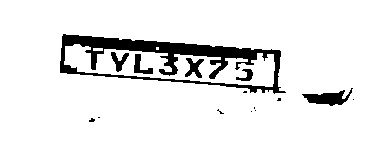
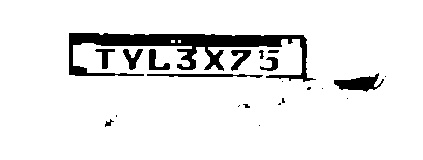
cry: not working && added normalizer_mercosul

diff --git a/main.py b/main.py
@@ -13,13 +13,13 @@ def extrair_placa_mercosul(img):
     """
     hsv = cv2.cvtColor(img, cv2.COLOR_BGR2HSV)
 
-    # Máscara para o azul da faixa Mercosul (cobre também trechos com sombra)
-    azul_min = np.array([98, 70, 40])
-    azul_max = np.array([132, 255, 255])
+    # Máscara para o azul da faixa Mercosul (tolerante a sombras fortes)
+    azul_min = np.array([95, 50, 25])
+    azul_max = np.array([135, 255, 255])
     mascara = cv2.inRange(hsv, azul_min, azul_max)
 
-    # Fecha pequenas falhas na faixa azul (ex.: texto "BRASIL" em branco no meio)
-    kernel = cv2.getStructuringElement(cv2.MORPH_RECT, (15, 5))
+    # Fecha falhas horizontais na faixa azul (texto "BRASIL" e sombras)
+    kernel = cv2.getStructuringElement(cv2.MORPH_RECT, (25, 5))
     mascara = cv2.morphologyEx(mascara, cv2.MORPH_CLOSE, kernel)
     mascara = cv2.morphologyEx(mascara, cv2.MORPH_OPEN, np.ones((3, 3), np.uint8))
 
@@ -50,9 +50,13 @@ def extrair_placa_mercosul(img):
     c, rect = melhor
     (cx, cy), (rw, rh), angulo = rect
 
-    # Ajusta o ângulo para alinhar a faixa azul perfeitamente na horizontal
+    # Mantém a correção de inclinação entre -45° e +45° (evita virar 180°)
     if rw < rh:
+        angulo -= 90.0
+    if angulo < -45.0:
         angulo += 90.0
+    elif angulo > 45.0:
+        angulo -= 90.0
 
     # Rotaciona a imagem inteira em torno do centro da faixa azul
     h_img, w_img = img.shape[:2]
@@ -90,7 +94,7 @@ def preprocessar_placa(placa):
     cinza = cv2.cvtColor(redim, cv2.COLOR_BGR2GRAY)
 
     # Remoção de sombra: divide a imagem pelo fundo estimado com blur forte
-    fundo = cv2.GaussianBlur(cinza, (0, 0), sigmaX=31, sigmaY=31)
+    fundo = cv2.GaussianBlur(cinza, (0, 0), sigmaX=51, sigmaY=51)
     sem_sombra = cv2.divide(cinza, fundo, scale=255)
 
     # Suavização leve + binarização de Otsu
@@ -140,3 +144,43 @@ for caminho in sorted(glob.glob("dataset/*.*"), key=ordem_numerica):
 
 with open("resultados_tesseract.txt", "w", encoding="utf-8") as f:
     f.write("\n".join(resultados))
+    
+PARA_LETRA = {"0": "O", "1": "I", "2": "Z", "4": "A", "5": "S", "6": "G", "8": "B"}
+PARA_DIGITO = {"O": "0", "Q": "0", "D": "0", "I": "1", "L": "1", "Z": "2", "A": "4", "S": "5", "G": "6", "B": "8"}
+
+def normalizar_mercosul(texto):
+    limpo = re.sub(r"[^A-Z0-9]", "", texto.upper())
+    if len(limpo) < 7:
+        return limpo
+
+    # Testa janelas de 7 caracteres caso o OCR tenha lido ruído nas bordas
+    padrao = [True, True, True, False, True, False, False]  # True = letra, False = dígito
+    melhor_candidato = limpo[:7]
+    menor_custo = 99
+
+    for i in range(len(limpo) - 6):
+        trecho = limpo[i : i + 7]
+        custo = 0
+        corrigido = []
+        for ch, espera_letra in zip(trecho, padrao):
+            if espera_letra:
+                if ch.isalpha():
+                    corrigido.append(ch)
+                elif ch in PARA_LETRA:
+                    corrigido.append(PARA_LETRA[ch])
+                    custo += 1
+                else:
+                    custo += 5
+            else:
+                if ch.isdigit():
+                    corrigido.append(ch)
+                elif ch in PARA_DIGITO:
+                    corrigido.append(PARA_DIGITO[ch])
+                    custo += 1
+                else:
+                    custo += 5
+        if custo < menor_custo:
+            menor_custo = custo
+            melhor_candidato = "".join(corrigido)
+
+    return melhor_candidato
